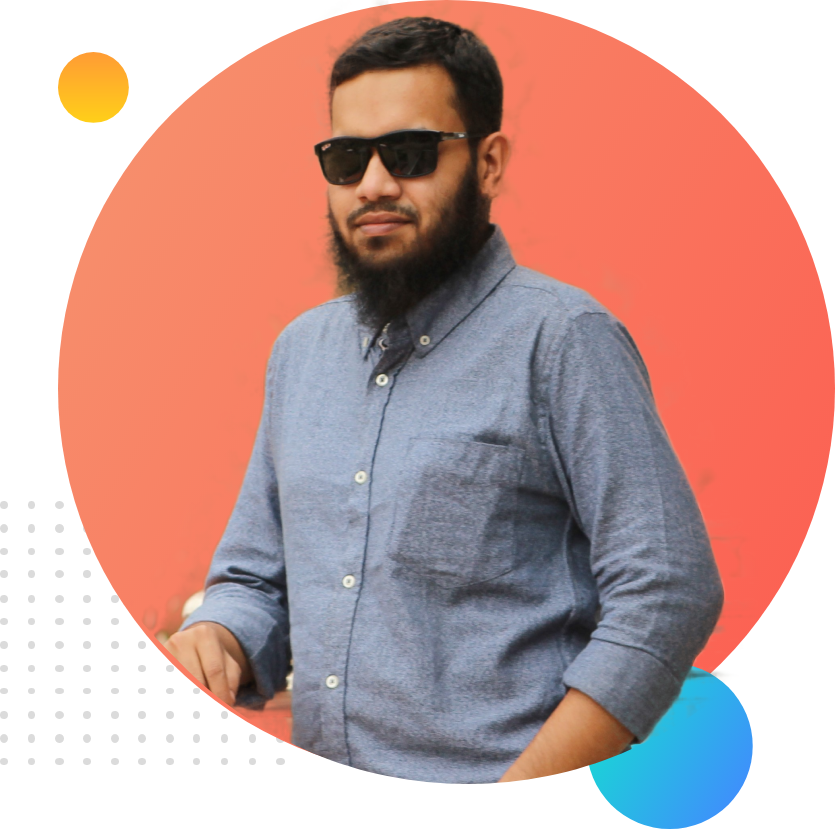
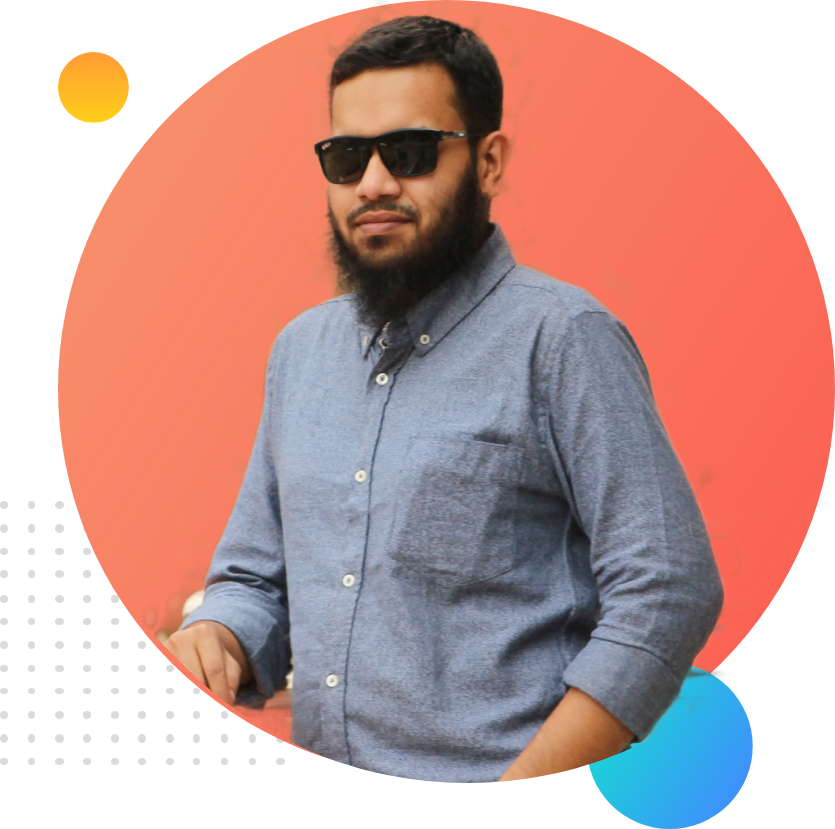
images moved to folder and title updated

diff --git a/index.html b/index.html
@@ -4,7 +4,7 @@
     <meta charset="UTF-8">
     <meta http-equiv="X-UA-Compatible" content="IE=edge">
     <meta name="viewport" content="width=device-width, initial-scale=1.0">
-    <title>Developer-portfolio</title>
+    <title>Jayem-portfolio</title>
     <link rel="preconnect" href="https://fonts.googleapis.com">
 <link rel="preconnect" href="https://fonts.gstatic.com" crossorigin>
 <link href="https://fonts.googleapis.com/css2?family=Mingzat&display=swap" rel="stylesheet">
